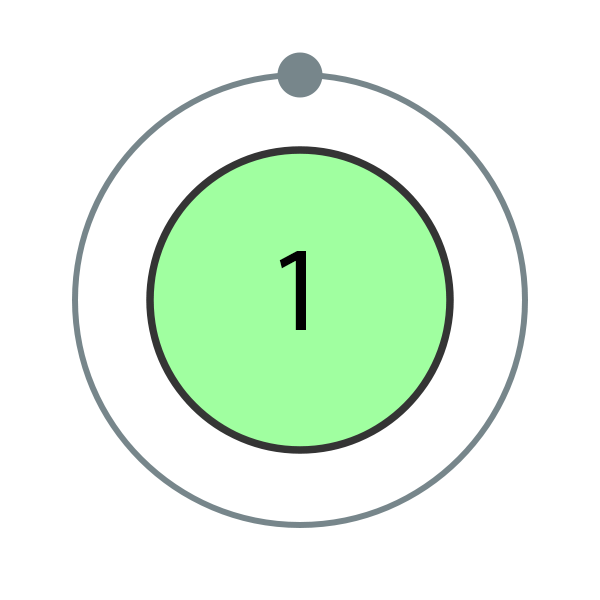
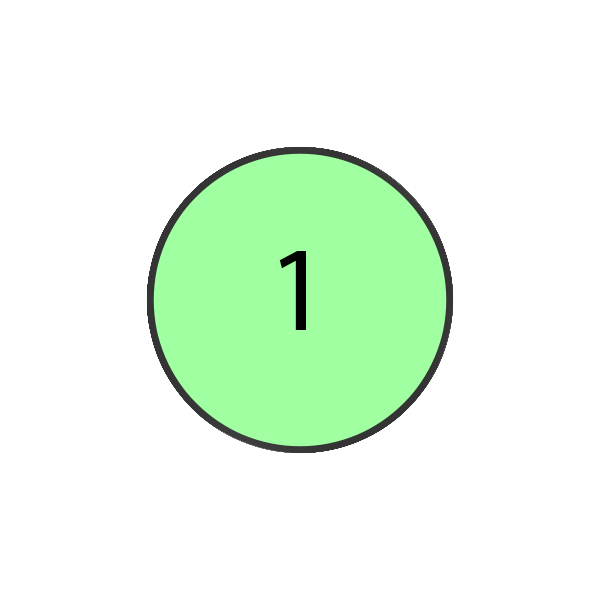
Hydrogen shell rotation done

diff --git a/Assets/Scripts/LevelOne/LevelOneBond.cs b/Assets/Scripts/LevelOne/LevelOneBond.cs
@@ -41,6 +41,7 @@ public class LevelOneBond : mouseDrag {
                     {
                         collidedAtom.GetComponent<RelativeJoint2D>().connectedBody = draggedAtom.GetComponent<Rigidbody2D>();
                         collidedAtom.GetComponent<RelativeJoint2D>().linearOffset = hydrogenAtomLinearOffset;
+                        TriggerShellRotation(collidedAtom, draggedAtom);
                         isBondingFailed = true;
                     }
                     // Enable bonding joint for colliding with any type of atom
@@ -53,6 +54,7 @@ public class LevelOneBond : mouseDrag {
                     {
                         collidedAtom.GetComponent<RelativeJoint2D>().connectedBody = draggedAtom.GetComponent<Rigidbody2D>();
                         collidedAtom.GetComponent<RelativeJoint2D>().linearOffset = hydrogenAtomLinearOffset;
+                        TriggerShellRotation(collidedAtom, draggedAtom);
                         isBondingFailed = true;
                     }
                     // Enable bonding joint for colliding with any type of atom
@@ -74,5 +76,24 @@ public class LevelOneBond : mouseDrag {
     public void ProceedToNextLevel() {
         SceneManager.LoadScene(1);
     }
-    
+
+    public void TriggerShellRotation(GameObject collidedAtom, GameObject draggedAtom) {
+        Transform collidedAtomShellTransform;
+        Transform draggedAtomShellTransform;
+        switch (collidedAtom.name)
+        {
+            case "Hydrogen1":
+            case "Hydrogen2":
+                collidedAtomShellTransform = collidedAtom.transform.FindChild("Shell").transform;
+                collidedAtomShellTransform.localEulerAngles = new Vector3(collidedAtomShellTransform.localRotation.x, collidedAtomShellTransform.localRotation.y, 0);
+                draggedAtomShellTransform = draggedAtom.transform.FindChild("Shell").transform;
+                draggedAtomShellTransform.localEulerAngles = new Vector3(draggedAtomShellTransform.localRotation.x, draggedAtomShellTransform.localRotation.y, 180);
+                break;
+            case "Oxygen":
+                break;
+            default:
+                break;
+
+        }
+    }
 }
